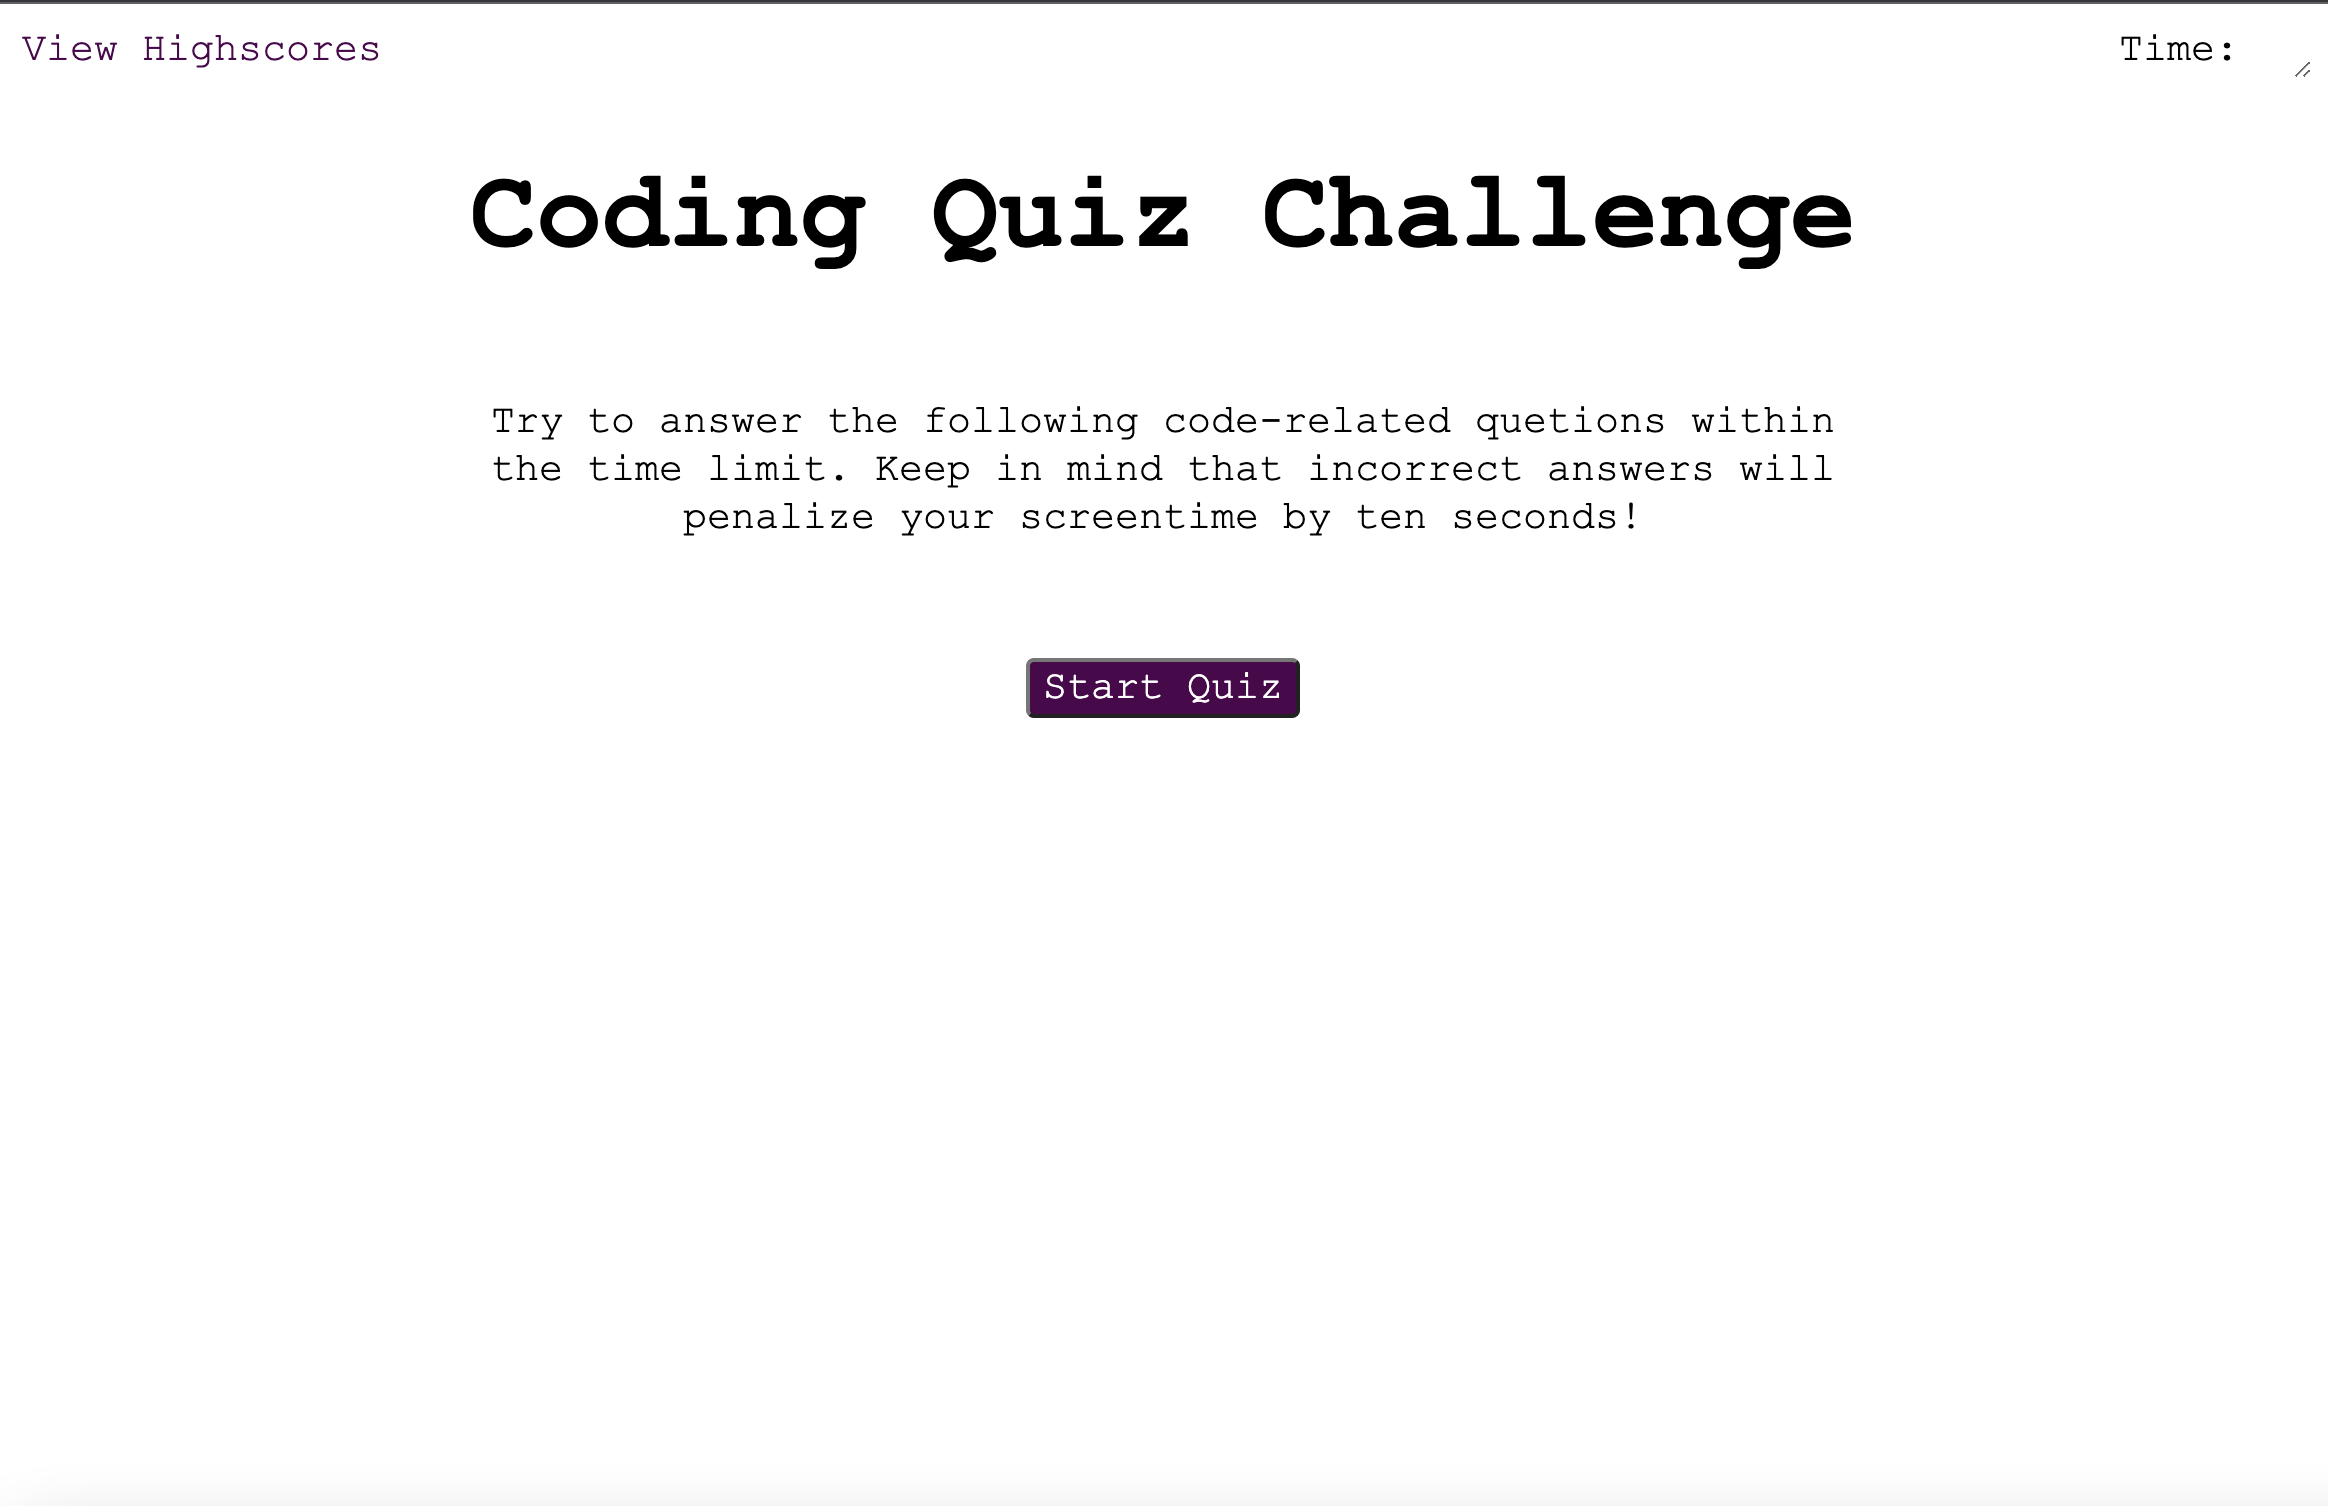
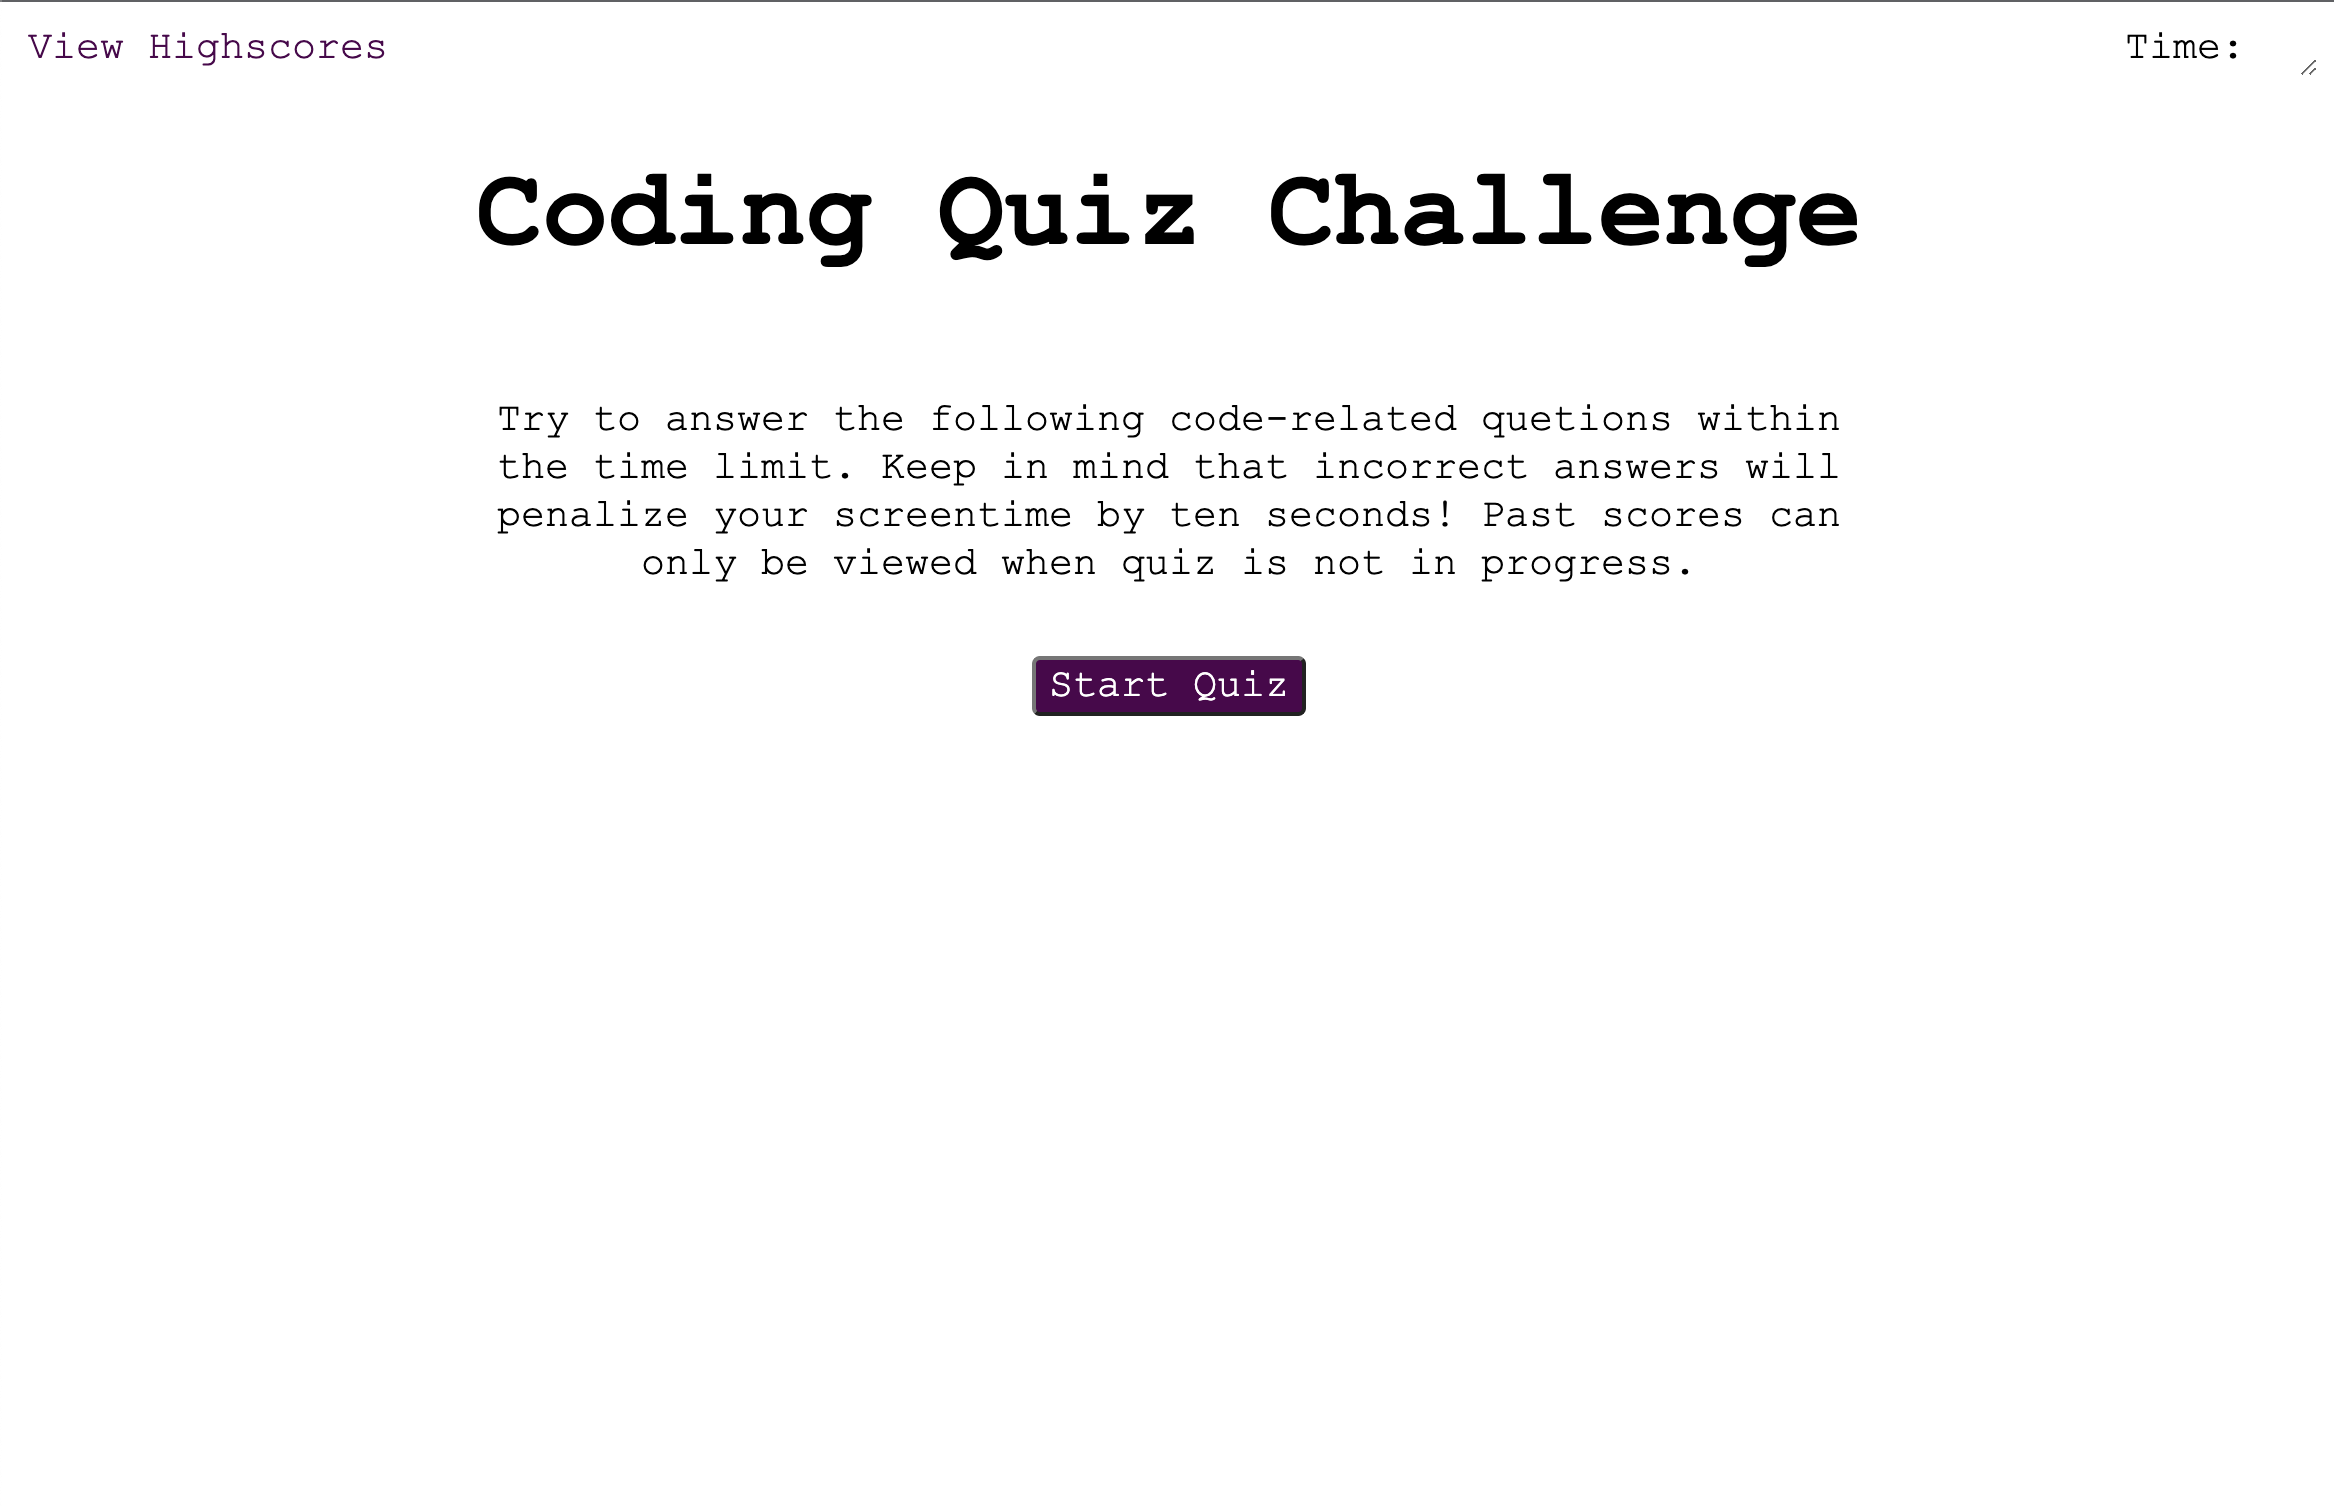
Added quiz start screen text and some formatting

diff --git a/assets/js/script.js b/assets/js/script.js
@@ -197,8 +197,7 @@ function prepareToDisplayForHighScoreStats() {
     document.getElementById('yourAnswerEvaluationArea').setAttribute('style', 'display : none');
     var statsDisplayOrderedList = document.createElement('ol');
     statsDisplayOrderedList.setAttribute('id', 'statsDisplayOrderedList');
-    if (stats !== null)
-    {
+    if (stats !== null) {
         stats.sort(function (a, b) {
             return b.lastPlayerTotalScore - a.lastPlayerTotalScore;
         });
@@ -225,7 +224,7 @@ function saveScoresInLocalStorage() {
 
 // Previous stats are cleared and empty array stats pushed to the local storage. 
 
-function reloadTheStatsAfterClearing () {
+function reloadTheStatsAfterClearing() {
     if (JSON.parse(localStorage.getItem('statsInStorage')) === null) {
         stats = [];
         localStorage.setItem("statsInStorage", JSON.stringify(stats));
@@ -324,18 +323,18 @@ clearHighscores.addEventListener('click', function (event) {
 
 viewHighScores.addEventListener('click', function (event) {
     event.preventDefault();
-    if (quizManager.quizCurrentState === quizManager.quizStates[4]) {
+    if (quizManager.quizCurrentState === quizManager.quizStates[1] || quizManager.quizCurrentState === quizManager.quizStates[2] || quizManager.quizCurrentState === quizManager.quizStates[3] || quizManager.quizCurrentState === quizManager.quizStates[4]) {
         //Do Nothing
     }
     else if (quizManager.quizCurrentState === quizManager.quizStates[0]) {
         prepareLoadOfHighscore();
         prepareToDisplayForHighScoreStats();
     }
-    else {
-        location.reload();
-        prepareLoadOfHighscore();
-        prepareToDisplayForHighScoreStats();
-    }
+    // else {
+    //     location.reload();
+    //     prepareLoadOfHighscore();
+    //     prepareToDisplayForHighScoreStats();
+    // }
     function prepareLoadOfHighscore() {
         document.querySelector('header section.timeAndScore').setAttribute('style', 'display : none');
         document.querySelector('header h1').setAttribute('style', 'display : none');

diff --git a/index.html b/index.html
@@ -28,7 +28,7 @@
     <main>
         <section id="instructions">
             <p>Try to answer the following code-related quetions within the time limit. Keep in mind that incorrect
-                answers will penalize your screentime by ten seconds!</p>
+                answers will penalize your screentime by ten seconds! Past scores can only be viewed when quiz is not in progress.</p>
         </section>
         <section id="yourScoreKeeper">
         </section>

diff --git a/assets/css/style.css b/assets/css/style.css
@@ -182,6 +182,5 @@ input[id='submitPlayerDetailsForm'], button[id='startButton'] {
     /* padding: 2px; */
     border-radius: 4px;
 }
-
-
+  
 
